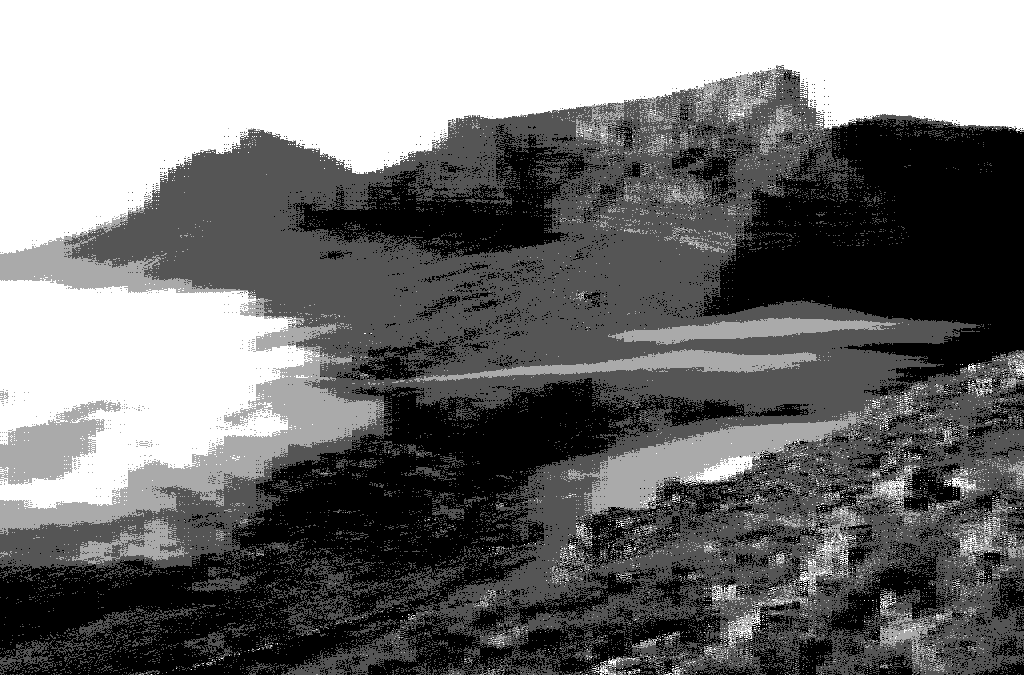
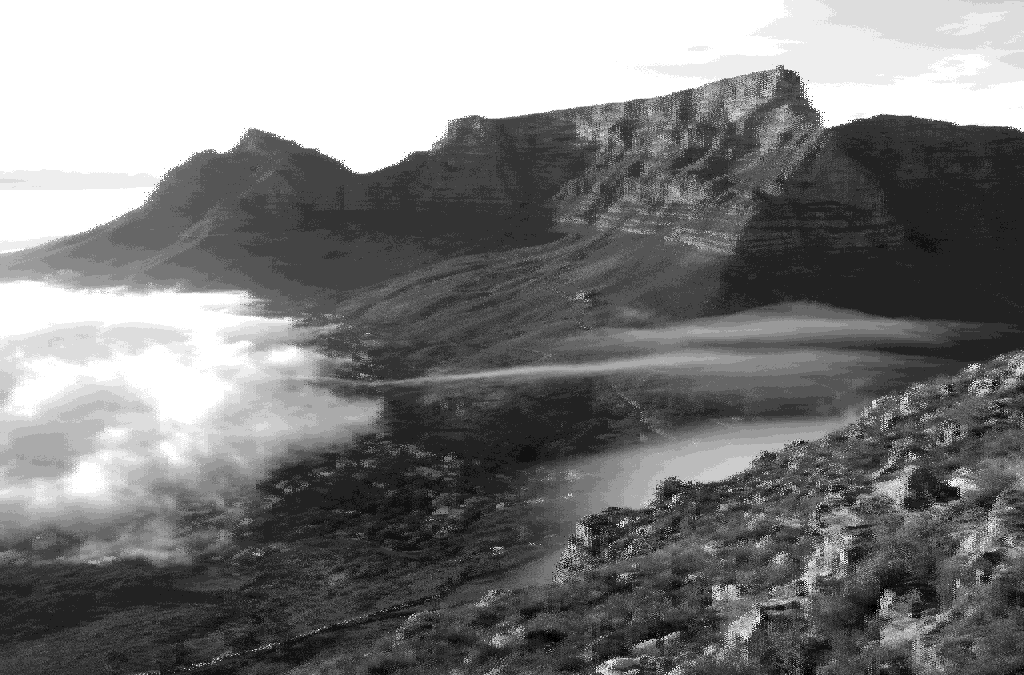
Png deinterlacing works for images with bit_depth>=8

diff --git a/src/png/interlace.rs b/src/png/interlace.rs
@@ -1,6 +1,6 @@
 use std::iter::repeat_n;
 
-use crate::colors::RGBA;
+use crate::{binary::byte_reader::ByteReader, colors::RGBA, png_assert};
 
 use super::PngParseError;
 
@@ -52,6 +52,77 @@ impl InterlaceMethod {
         }
     }
 
+    pub fn reconstruct_filtered_scanlines(
+        &self,
+        data: &[u8],
+        height: usize,
+        width: usize,
+        bytes_per_scanline_value: usize,
+    ) -> Result<Vec<Vec<Vec<u8>>>, PngParseError> {
+        let filter_byte_size = 1;
+
+        match self {
+            InterlaceMethod::NoInterlace => {
+                let bytes_per_scanline = filter_byte_size + (width * bytes_per_scanline_value);
+                let expected_data_size = height * bytes_per_scanline;
+                png_assert!(
+                    data.len() == expected_data_size,
+                    format!(
+            "Expected {} bytes for resolution {}x{} after decompressing, but received {}",
+            expected_data_size,
+            height,
+            width,
+            data.len()
+        )
+                );
+
+                Ok(vec![data
+                    .chunks(bytes_per_scanline)
+                    .map(|scanline| scanline.to_vec())
+                    .collect()])
+            }
+            InterlaceMethod::Adam7 => {
+                let mut data_reader = ByteReader::new(data);
+                let scanline_dimensions_by_pass = adam7_scanlines_dimensions_by_pass(height, width);
+                let mut all_scanlines = Vec::new();
+
+                for pass in 0..ADAM7_PASSES.len() {
+                    let (number_of_scanlines, scanline_number_of_pixels) =
+                        scanline_dimensions_by_pass[pass];
+                    let scanline_width_bytes =
+                        filter_byte_size + (scanline_number_of_pixels * bytes_per_scanline_value);
+                    let expected_data_size = number_of_scanlines * scanline_width_bytes;
+
+                    let current_pass_scanlines: Vec<Vec<u8>> = match data_reader
+                        .read_bytes(expected_data_size)
+                    {
+                        Some(bytes) => bytes
+                            .chunks(scanline_width_bytes)
+                            .map(|slice| slice.to_vec())
+                            .collect(),
+                        None => {
+                            return Err(PngParseError(format!(
+                                        "Expected {expected_data_size} bytes for adam7 pass #{pass}, but only had {} bytes left in the buffer",
+                                        data_reader.number_of_bytes_left()
+                            )));
+                        }
+                    };
+
+                    all_scanlines.push(current_pass_scanlines);
+                }
+
+                png_assert!(
+                    data_reader.is_finished(),
+                    format!(
+                        "Interlace decode error: Decompressed data is too long, expected {} bytes but data is {} bytes", data.len() -  data_reader.number_of_bytes_left(), data.len()
+                    )
+                );
+
+                Ok(all_scanlines)
+            }
+        }
+    }
+
     pub fn deinterlace_image(
         &self,
         mut reduced_images: Vec<Vec<Vec<RGBA>>>,
@@ -83,7 +154,6 @@ impl InterlaceMethod {
                         let pixel = reduced_images[pass_number][new_pass_coordinates.0 .0]
                             [new_pass_coordinates.0 .1]
                             .clone();
-                        println!("{pass_number}, {:?} {}", new_pass_coordinates, pixel.r);
 
                         row.push(pixel);
 
@@ -141,7 +211,7 @@ const ADAM7_PASSES: [&[(usize, &[usize])]; 7] = [
     ],
 ];
 
-const ADAM7_SUBSET_PASSES: [[usize; 8]; 8] = [
+const ADAM7_BLOCK_PASSES: [[usize; 8]; 8] = [
     [0, 5, 3, 5, 1, 5, 3, 5],
     [6, 6, 6, 6, 6, 6, 6, 6],
     [4, 5, 4, 5, 4, 5, 4, 5],
@@ -153,5 +223,47 @@ const ADAM7_SUBSET_PASSES: [[usize; 8]; 8] = [
 ];
 
 fn coordinates_to_pass_number(y: usize, x: usize) -> usize {
-    ADAM7_SUBSET_PASSES[y & 0b111][x & 0b111]
+    ADAM7_BLOCK_PASSES[y & 0b111][x & 0b111]
 }
+
+fn adam7_scanlines_dimensions_by_pass(height: usize, width: usize) -> Vec<(usize, usize)> {
+    let number_of_extra_rows = height & 0b111;
+    let number_of_extra_cols = width & 0b111;
+
+    (0..ADAM7_PASSES.len())
+        .map(|pass_number| {
+            let full_block_rows = FULL_BLOCK_NUMBER_OF_ROWS_BY_PASS[pass_number] * (height >> 3);
+            let pass_number_of_extra_rows =
+                PARTIAL_BLOCK_NUMBER_OF_ROWS_BY_HEIGHT_BY_PASS[pass_number][number_of_extra_rows];
+            let full_block_cols = FULL_BLOCK_NUMBER_OF_COLS_BY_PASS[pass_number] * (width >> 3);
+            let pass_number_of_extra_cols =
+                PARTIAL_BLOCK_NUMBER_OF_COLS_BY_WIDTH_BY_PASS[pass_number][number_of_extra_cols];
+
+            (
+                full_block_rows + pass_number_of_extra_rows,
+                full_block_cols + pass_number_of_extra_cols,
+            )
+        })
+        .collect()
+}
+
+const FULL_BLOCK_NUMBER_OF_ROWS_BY_PASS: [usize; 7] = [1, 1, 1, 2, 2, 4, 4];
+const FULL_BLOCK_NUMBER_OF_COLS_BY_PASS: [usize; 7] = [1, 1, 2, 2, 4, 4, 8];
+const PARTIAL_BLOCK_NUMBER_OF_ROWS_BY_HEIGHT_BY_PASS: [[usize; 9]; 7] = [
+    [0, 1, 1, 1, 1, 1, 1, 1, 1],
+    [0, 1, 1, 1, 1, 1, 1, 1, 1],
+    [0, 0, 0, 0, 0, 1, 1, 1, 1],
+    [0, 1, 1, 1, 1, 2, 2, 2, 2],
+    [0, 0, 0, 1, 1, 1, 1, 2, 2],
+    [0, 1, 1, 2, 2, 3, 3, 4, 4],
+    [0, 0, 1, 1, 2, 2, 3, 3, 4],
+];
+const PARTIAL_BLOCK_NUMBER_OF_COLS_BY_WIDTH_BY_PASS: [[usize; 9]; 7] = [
+    [0, 1, 1, 1, 1, 1, 1, 1, 1],
+    [0, 0, 0, 0, 0, 1, 1, 1, 1],
+    [0, 1, 1, 1, 1, 2, 2, 2, 2],
+    [0, 0, 0, 1, 1, 1, 1, 2, 2],
+    [0, 1, 1, 2, 2, 3, 3, 4, 4],
+    [0, 0, 1, 1, 2, 2, 3, 3, 4],
+    [0, 1, 2, 3, 4, 5, 6, 7, 8],
+];

diff --git a/src/png/mod.rs b/src/png/mod.rs
@@ -11,7 +11,7 @@ use consts::{
     IDAT_CHUNK_MAX_SIZE, IDAT_CHUNK_TYPE, IEND_CHUNK_TYPE, PLTE_CHUNK_TYPE, PNG_SIGNATURE,
 };
 use crc::CrcCalculator;
-use deflate::{compress_scanlines, uncompress_scanlines};
+use deflate::{compress_scanlines, zlib::decode_zlib};
 use filter::{filter_scanlines, remove_scanlines_filter};
 use ihdr::IHDR;
 pub use interlace::InterlaceMethod;
@@ -26,7 +26,7 @@ mod color_type;
 mod consts;
 mod crc;
 pub mod deflate;
-mod filter;
+pub mod filter;
 mod interlace;
 pub mod palette;
 mod serialization;
@@ -90,21 +90,40 @@ pub fn decode_png(bytes: &[u8]) -> Result<Vec<Vec<RGBA>>, PngParseError> {
     );
 
     let bbp = ihdr_chunk.get_bits_per_pixel();
-    let filtered_scanlines = uncompress_scanlines(
-        &compressed_data,
+    let uncompressed_data = match decode_zlib(&compressed_data) {
+        Ok(data) => data,
+        Err(deflate_error) => {
+            return Err(PngParseError(deflate_error.0));
+        }
+    };
+    let reduced_images_scanlines = ihdr_chunk.interlace_method.reconstruct_filtered_scanlines(
+        &uncompressed_data,
         ihdr_chunk.height as usize,
         ihdr_chunk.width as usize,
-        ihdr_chunk.get_bits_per_pixel(),
-    )?;
-    let scanlines = remove_scanlines_filter(&filtered_scanlines, bbp)?;
-    let pixels = ihdr_chunk.color_type.scanline_to_pixels(
-        &scanlines,
-        ihdr_chunk.bit_depth,
-        ihdr_chunk.width as usize,
-        palette,
+        ihdr_chunk.get_bytes_per_scanline_value(),
     )?;
 
-    Ok(pixels)
+    let reduced_images = reduced_images_scanlines
+        .into_iter()
+        .map(|reduced_image_scanlines| {
+            let scanlines = remove_scanlines_filter(&reduced_image_scanlines, bbp)?;
+            let reduced_image_pixels = ihdr_chunk.color_type.scanline_to_pixels(
+                &scanlines,
+                ihdr_chunk.bit_depth,
+                ihdr_chunk.width as usize,
+                &palette,
+            )?;
+
+            Ok(reduced_image_pixels)
+        })
+        .collect::<Result<Vec<Vec<Vec<RGBA>>>, PngParseError>>()?;
+    let image = ihdr_chunk.interlace_method.deinterlace_image(
+        reduced_images,
+        ihdr_chunk.height as usize,
+        ihdr_chunk.width as usize,
+    );
+
+    Ok(image)
 }
 
 pub fn encode_png(

diff --git a/src/main.rs b/src/main.rs
@@ -9,7 +9,7 @@ use muxers::{show_muxer::ShowMuxer, Muxer};
 use png::{
     decode_png,
     deflate::{self, decode::decode_deflate},
-    encode_png, InterlaceMethod,
+    encode_png,
 };
 use stream::Stream;
 
@@ -32,46 +32,12 @@ mod stream;
 mod tree;
 
 fn main() {
-    adam7_test();
-    // png_encode_test(None, None, Some(InterlaceMethod::Adam7));
-    // png_decode_test();
-}
-
-fn adam7_test() {
-    let mut pixels: Vec<Vec<RGBA>> = Vec::new();
-
-    //problem occurs when width>height
-    let height = 10;
-    let width = 12;
-    let mut n: u64 = 0;
-    for i in 0..height {
-        let mut row = Vec::new();
-        // let r = i as f32 / height as f32 * 255.;
-        for j in 0..width {
-            let r = i * width + j;
-            // let g = j as f32 / width as f32 * 255.;
-            let g = 0;
-            row.push(RGBA::new(r as u8, g as u8, 0, 255));
-            n += 1;
-        }
-
-        pixels.push(row);
-    }
-
-    // let png_bytes = encode_png(pixels, None, None, Some(InterlaceMethod::Adam7));
-    // fs::write("files/goop.png", png_bytes).expect("Failed to write my png");
-
-    let interlace = InterlaceMethod::Adam7;
-    let reduced_images = interlace.perform_pass_extraction(pixels);
-    let reconstructed_image = interlace.deinterlace_image(reduced_images, height, width);
-
-    for pass in reconstructed_image {
-        println!("[");
-        for row in pass {
-            println!("  {:?}", row);
-        }
-        println!("[");
-    }
+    // png_encode_test(
+    //     Some(png::ColorType::Greyscale),
+    //     Some(4),
+    //     Some(png::InterlaceMethod::Adam7),
+    // );
+    png_decode_test();
 }
 
 fn png_encode_test(
@@ -137,7 +103,7 @@ fn deflate_test() {
     // decode.read_to_end(&mut out).unwrap();
     // println!("flate2 out {:?}", String::from_utf8(out).unwrap());
     //
-    let decoded = decode_deflate(&out_bytes).unwrap();
+    let _decoded = decode_deflate(&out_bytes).unwrap();
     // println!("my out {:?}", String::from_utf8(decoded).unwrap());
 }
 

diff --git a/src/png/chunks/ihdr.rs b/src/png/chunks/ihdr.rs
@@ -66,9 +66,9 @@ pub struct IHDR {
     pub height: u32,
     pub bit_depth: u8,
     pub color_type: ColorType,
+    pub interlace_method: InterlaceMethod,
     compression_method: CompressionMethod,
     filter_method: FilterMethod,
-    interlace_method: InterlaceMethod,
 }
 
 impl IHDR {
@@ -171,11 +171,6 @@ impl IHDR {
             "Only adaptive filtering is supported".to_string()
         );
 
-        png_assert!(
-            matches!(self.interlace_method, InterlaceMethod::NoInterlace),
-            "Interlacing is not supported".to_string()
-        );
-
         self.check_bit_depth_validity()?;
 
         Ok(())
@@ -183,5 +178,14 @@ impl IHDR {
 
     pub fn get_bits_per_pixel(&self) -> usize {
         self.bit_depth as usize * self.color_type.samples_per_pixel()
+    }
+
+    pub fn get_bytes_per_scanline_value(&self) -> usize {
+        self.color_type.samples_per_pixel()
+            * if self.bit_depth < 8 {
+                1
+            } else {
+                self.bit_depth as usize >> 3
+            }
     }
 }

diff --git a/src/png/color_type.rs b/src/png/color_type.rs
@@ -133,7 +133,7 @@ impl ColorType {
         scanlines: &[Vec<u8>],
         bit_depth: u8,
         width: usize,
-        palette: Option<Vec<RGBA>>,
+        palette: &Option<Vec<RGBA>>,
     ) -> Result<Vec<Vec<RGBA>>, PngParseError> {
         if bit_depth < 8 {
             return self.scanline_to_pixels_bit_aligned(scanlines, bit_depth, width, palette);
@@ -221,7 +221,7 @@ impl ColorType {
         scanlines: &[Vec<u8>],
         bit_depth: u8,
         width: usize,
-        palette: Option<Vec<RGBA>>,
+        palette: &Option<Vec<RGBA>>,
     ) -> Result<Vec<Vec<RGBA>>, PngParseError> {
         let mut pixels = Vec::with_capacity(scanlines.len());
 

diff --git a/src/binary/byte_reader.rs b/src/binary/byte_reader.rs
@@ -12,6 +12,10 @@ impl<'a> ByteReader<'a> {
         self.offset = 0;
     }
 
+    pub fn is_finished(&self) -> bool {
+        self.number_of_bytes_left() == 0
+    }
+
     pub fn read_byte(&mut self) -> Option<u8> {
         let byte = self.bytes.get(self.offset);
         self.offset += 1;
